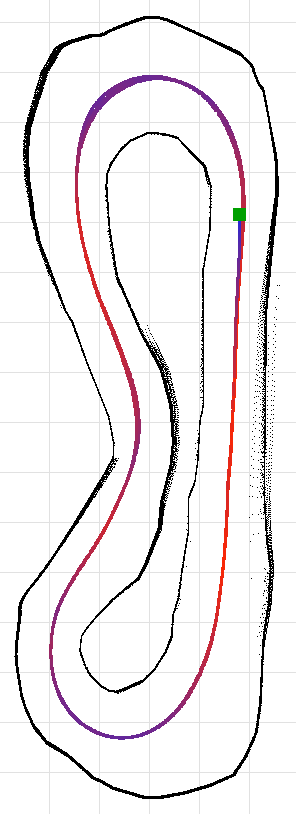
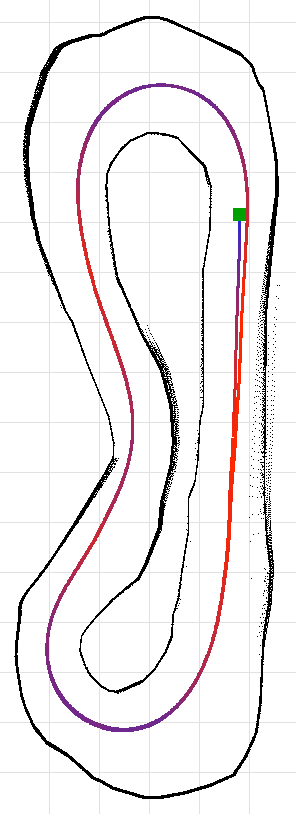
Free-space aim-point steering as the default: 5.994 s best, 31/31 clean laps
- README rewritten: two configurations, results (baseline to final, ablation,
  steering-vs-speed separation, four CMA-ES stages), measurements, things
  that did not work, robustness notes (message-gap crash, 0.33 m spot)
- shipped build re-measured: 6.011 +- 0.004 s (3 x 4 laps) and a 31-lap
  ros2-run node run (best 5.994, mean 6.012, all clean)
- figure regenerated; results archived under experiments/

diff --git a/README.md b/README.md
@@ -5,123 +5,145 @@ simulator) from its LiDAR scan.
 
 | | |
 |---|---|
-| **Fastest clean lap** | **6.299 s** |
-| **Consecutive clean laps** | **31 of 31** in one run of the real node (`ros2 run`, default parameters). Best 6.324 s, slowest flying lap 6.426 s |
+| **Fastest clean lap** | **5.994 s** (default configuration; simulator lap timer) |
+| **Consecutive clean laps** | **31 of 31** in one run of the real node (`ros2 run`, default parameters): best 5.994 s, mean 6.012 ± 0.009 s, slowest flying lap 6.031 s. |
 | **Video** | VIDEO_LINK_HERE (unlisted YouTube, Driver's Eye camera) |
 | **Node** | [`autodrive_devkit/autodrive_roboracer/wall_follow_node.py`](autodrive_devkit/autodrive_roboracer/wall_follow_node.py) |
 
-All times come from the simulator's own lap timer, which is the same clock the HUD shows.
+All lap times are the simulator's own lap timer, the same clock the HUD shows. "Flying laps"
+means lap 2 onward: a reset does not restart the timer, so lap 1 also contains the idle time
+before the car starts.
 
-![Final configuration, laps coloured by speed](docs/final_laps.png)
+![Default configuration, laps coloured by speed](docs/final_laps.png)
 
-*Final configuration on the practice track. Blue is slow, red is fast (7.3 m/s). The car runs
+*Default configuration on the practice track. Blue is slow, red is fast (7.6 m/s). The car runs
 clockwise from the green square. Walls are drawn from logged LiDAR scans.*
+
+## Two configurations
+
+The node ships with one default and two alternative parameter files. They share the wall fits,
+the side guard, the speed logic and the traction control; they differ in what the steering aims
+at.
+
+| Configuration | Steering reference | Mean flying lap (s) | How to run |
+|---|---|---|---|
+| **Default** | Free-space aim point: the centre of the free sector at a lookahead range, on a disparity-extended scan (follow-the-gap style). The two fitted walls provide centring, the side guard and the speed limits. | **6.01** (see below) | `ros2 run autodrive_roboracer wall_follow_node` |
+| Two-wall + corner preview | Midline between the two fitted walls, PD, plus a small bias towards the deepest free direction | 6.44 ± 0.27 (best 6.32) | `--ros-args --params-file .../config/two_wall_preview.yaml` |
+| Pure two-wall | Midline between the two fitted walls, PD, nothing else | 7.33 ± 0.04 | `--ros-args --params-file .../config/two_wall_pure.yaml` |
+
+The challenge asks for a wall follower. The default configuration's primary steering reference
+is the free space ahead, not the walls; the walls are secondary (centring with a small gain, the
+side guard, and all speed limits come from wall and scan distances). If a strict two-wall
+follower is wanted, the second configuration is the one to judge: it is the same node with
+`steer_mode:=pd`, and every number for it is in the tables below.
 
 ## How it works
 
-Each LiDAR scan (1080 beams over 270°) produces one steering command and one throttle command.
+Each LiDAR scan (1080 beams over 270°) produces one steering and one throttle command.
 
-**Steering**
+**Walls.** For each side, beam *b* points 90° to the side and beam *a* 50° further forward.
+For a straight wall, `tan α = (a·cos θ − b) / (a·sin θ)` gives the car's angle to the wall and
+`D = b·cos α` its distance. The centring error is `(D_left − D_right) / 2`, projected a little
+ahead. Wall-angle and error clamps reject bad fits. A side guard adds steering away from any wall
+closer than 0.37 m.
 
-1. **Wall fit.** For each side wall, beam *b* points 90° to the side and beam *a* points 50°
-   further forward. For a straight wall, `tan α = (a·cos θ − b) / (a·sin θ)` gives the car's angle
-   to the wall, and `D = b·cos α` its distance. The distance is projected ahead,
-   `D + L·sin α`, with a look-ahead `L` that grows with speed.
-2. **Centring.** The error is `(D_left − D_right) / 2`, and a PD controller turns it into a
-   steering angle. If one wall disappears, the node follows the other wall at half the remembered
-   track width. Wall-angle and error clamps reject bad fits. A side guard pushes away from any wall
-   closer than 0.37 m.
-3. **Corner preview.** The mean direction of the farthest returns within ±60° shows where the
-   track turns. A small bias towards it (`preview_gain`) makes the car turn in earlier and take a
-   wider, faster arc. This term borrows from follow-the-gap; everything else is wall following.
-   With `preview_gain:=0` the node is a pure two-wall follower, which is also clean but slower
-   (7.33 s, see the ablation).
+**Steering (default).**
+1. *Disparity extension.* Wherever two neighbouring beams differ by more than 0.3 m, the nearer
+   range is copied over the beams the car's half width would sweep at that distance. A direction
+   left free afterwards is one the car fits through.
+2. *Aim point.* Among the beams longer than the lookahead range (1.93 m + 0.20 m per m/s of
+   speed), the contiguous free sector containing the deepest direction is chosen and the car aims
+   at its centre. If nothing is free at that range, the range shrinks (down to 1.17 m). The aim
+   point is shifted 0.24 m towards the inside of the turn (`apex_shift`).
+3. *Pure pursuit.* The steering angle is the arc that reaches the aim point:
+   `κ = 2·sin θ / L`, `δ = atan(κ · wheelbase)`. A small PD term on the wall-centring error
+   (kp 0.084) and the side guard are added.
 
-**Speed**
+**Steering (two-wall configurations).** `δ = kp · error` with kp 0.42, plus the derivative term,
+the optional corner-preview bias (`preview_gain` × the deepest direction) and the side guard.
 
-4. **Target speed** is the lowest of three limits:
-   - the top speed `v_max`;
-   - braking: `√(v_corner² + 2·a_brake·d)`, where `d` is the free distance along the arc the car is
-     steering on. Mid-corner, the straight-ahead distance is short even when the path is clear,
-     so the arc matters;
-   - cornering: `√(a_lat / κ)`, with `κ = tan(δ) / wheelbase`.
-5. **Throttle.** In this simulator, throttle sets wheel speed (measured: steady speed ≈ 25 m/s ×
-   throttle). The throttle is therefore `v_target / 25` plus a speed-error term from odometry.
-   **Traction control** caps the commanded wheel speed at 18 % (+0.5 m/s) above the car's speed. Full throttle
-   from low speed spins the wheels: in the measurement, 5.4 m/s after 1.2 s instead of 7.4 m/s.
+**Speed.** The target speed is the lowest of three limits: the top speed `v_max`; braking
+`√(v_corner² + 2·a_brake·d)` where `d` is the free distance along the arc the car is steering on;
+and cornering `√(a_lat / κ)` from the commanded curvature. Throttle in this simulator sets wheel
+speed (steady speed ≈ 25 m/s × throttle), so `throttle = v_target / 25` plus a speed-error term
+from odometry, capped by traction control (wheel speed at most 16 % + 0.5 m/s above the car's
+speed; full throttle from low speed spins the wheels).
 
-**Plumbing**
+`a_lat` is a cornering *speed target*, tuned slightly above the measured steady-state grip
+(8.34 vs about 8 m/s²): on corner entry the car routinely exceeds it while braking, and the
+protection against walls comes from the arc-clearance braking, not from this limit.
 
-- The LiDAR produces about 40 new scans per second, and the bridge republishes each one 3–5
-  times. Steering is recomputed only on a new scan, so the derivative sees real changes. Throttle
-  is refreshed on every message.
-- When the node stops (Ctrl+C or SIGTERM), it publishes zero throttle and steering. The bridge
-  keeps replaying the last command it received, so without this the car would keep driving.
-- Every tunable is a ROS parameter, and parameters can be changed live
-  (`ros2 param set /wall_follow_node v_max 6.0`).
+**Plumbing.** The LiDAR produces about 40 new scans per second and the bridge republishes each
+one 3–5 times; steering is recomputed only on a new scan, throttle on every message. On Ctrl+C
+or SIGTERM the node publishes zero throttle and steering before it exits (the bridge replays the
+last command forever otherwise). Malformed scans are ignored. Every tunable is a ROS parameter
+and can be changed live.
 
 ## Results
 
 ### From baseline to final
 
-Lap times are flying laps (lap 2 onward). A reset does not restart the simulator's lap timer, so
-lap 1 also contains the idle time before the car starts. Each row is 3 runs × 4 laps (9 flying
-laps), with runs interleaved across variants.
+Each row is 3 runs × 4 laps (9 flying laps), runs interleaved across variants. Mean ± standard
+deviation of the flying laps; laps within a run are correlated, so treat the ± as spread, not as a
+confidence interval.
 
-| Version | Mean flying lap (s) | Best (s) | Wall contacts |
+| Version | Mean flying lap (s) | Best (s) | Clean runs |
 |---|---|---|---|
-| Textbook wall follower, left wall (F1TENTH lab: PD, 1.5/1.0/0.5 m/s by steering angle) | 24.080 ± 0.042 | 24.036 | 0 |
-| Textbook wall follower, right (inner) wall | 21.015 ± 0.084 | 20.897 | 0 |
-| Hand-tuned: centring, arc braking, cornering limit, corner preview, speed feedback | 7.104 ± 0.043 | 7.052 | 0 |
-| **Final: + traction control, parameters tuned with CMA-ES** | **6.374 ± 0.055** | **6.299** | **0** |
+| Textbook wall follower, left wall (F1TENTH lab: PD, 1.5/1.0/0.5 m/s by steering angle) | 24.080 ± 0.042 | 24.036 | 3/3 |
+| Textbook wall follower, right (inner) wall | 21.015 ± 0.084 | 20.897 | 3/3 |
+| Two-wall PD, hand-tuned speed logic (centring, arc braking, cornering limit, preview, speed feedback) | 7.104 ± 0.043 | 7.052 | 3/3 |
+| Two-wall PD + traction control, parameters tuned with CMA-ES | 6.374 ± 0.055 | 6.299 | 3/3 |
+| Free-space aim point (pursuit), first CMA-ES stage | 6.084 ± 0.006 | 6.076 | 3/3 |
+| **Free-space aim point, second CMA-ES stage (default)** | **6.014 ± 0.008** | **6.007** | **3/3** |
+| Default, re-measured with the shipped build | 6.011 ± 0.004 | 6.004 | 3/3 |
+| Default, real node (`ros2 run`), 31 laps in a row | 6.012 ± 0.009 (30 flying laps) | 5.994 | 1/1 |
 
-Every run of the final configuration (4 runs, 43 laps) was clean. Across all 39 flying laps:
-mean 6.367 s, std 0.036 s, best 6.299 s, worst 6.466 s.
+Search scores are not quoted anywhere: every number above is a re-measurement of a fixed
+configuration.
 
-### Ablation: remove one component from the final configuration
+### Ablation: remove one component from the default configuration
 
-| Variant | Mean flying lap (s) | Δ vs final (s) | Clean runs |
+3 runs × 4 laps per variant, interleaved.
+
+| Variant | Mean flying lap (s) | Δ (s) | Clean runs |
 |---|---|---|---|
-| **Final** | **6.374 ± 0.055** | – | 3/3 |
-| − centring (follow the right wall only) | 7.869 ± 0.099 | +1.50 | 3/3 |
-| − arc clearance (straight-ahead corridor) | 7.370 ± 0.009 | +1.00 | 3/3 |
-| − corner preview (pure wall follower) | 7.327 ± 0.039 | +0.95 | 3/3 |
-| − speed feedback | 7.135 ± 0.235 | +0.76 | 3/3 |
-| − traction control | 6.506 ± 0.260 | +0.13 | 3/3 |
-| − speed-dependent look-ahead (fixed 1.0 m) | 6.485 ± 0.280 | +0.11 | 3/3 |
-| − corner-entry speed (`v_corner=0`) | 6.351 ± 0.013 | −0.02 | 3/3 |
-| − side guard | 6.363 ± 0.025 | −0.01 | 3/3 |
-| − adaptive speed (constant 3 m/s) | 10.206 ± 0.001 | +3.83 | 3/3 |
+| **Default** | **6.014 ± 0.008** | – | 3/3 |
+| − speed-dependent lookahead (fixed 1.93 m) | 7.436 ± 0.207 | +1.42 | 3/3 |
+| − speed feedback | 6.752 ± 0.007 | +0.74 | **2/3** |
+| − arc clearance (straight-ahead corridor) | 6.621 ± 0.005 | +0.61 | 3/3 |
+| two-wall PD steering instead of the aim point (same speed envelope) | 6.468 ± 0.320 | +0.45 | 3/3 |
+| − wall-centring term (kp = 0) | 6.151 ± 0.017 | +0.14 | 3/3 |
+| − traction control | 6.101 ± 0.007 | +0.09 | 3/3 |
+| − apex shift | 6.098 ± 0.004 | +0.08 | 3/3 |
+| − disparity extension | 6.071 ± 0.167 | +0.06 | 3/3 |
+| − corner speed (`v_corner = 0`) | 6.050 ± 0.004 | +0.04 | **1/3** |
+| − side guard | 6.025 ± 0.005 | +0.01 | 3/3 |
+| aim-point steering with the earlier (two-wall) speed envelope | 6.088 ± 0.004 | +0.07 | 3/3 |
 
-Centring, arc clearance, the corner preview and speed feedback each carry close to a second.
-Traction control and the speed-dependent look-ahead give smaller gains, and removing them also
-makes laps less consistent (std 0.26–0.28 s). The corner-entry speed and the side guard show no
-measurable effect on lap time. The side guard stays as a safety margin.
+The last two rows separate the steering change from the speed re-tune: the aim point with the
+earlier speed envelope is already at 6.09 s, while two-wall steering with the new envelope stays
+at 6.47 s. The speed-dependent lookahead, the speed feedback and the arc clearance each carry
+more than half a second. The wall-centring term, traction control and the apex shift are worth about a
+tenth each. Two variants that are not slower by much crashed: without the corner-speed term
+(2 wall contacts in 3 runs) and without speed feedback (1 in 3), both at the exit of the bottom
+hairpin. The side guard shows no measurable effect and stays as a safety margin.
 
 ### Parameter tuning (CMA-ES)
 
-Ten parameters were tuned with CMA-ES ([`tools/tune.py`](tools/tune.py)) directly in the
-simulator. The ten: top speed, cornering limit, braking, corner-entry speed, stop margin, preview
-gain, kp, look-ahead, traction slip and side clearance.
+Parameters were tuned with CMA-ES ([`tools/tune.py`](tools/tune.py)) directly in the simulator:
+one evaluation is a reset plus 3 laps, the score is the mean of laps 2–3, and a wall contact
+scores 12 s.
 
-- One evaluation is a reset plus 3 laps. The score is the mean of laps 2–3, and any wall contact
-  scores 12 s.
-- Stage 1 started from the hand-tuned configuration plus traction control, and ran 60
-  evaluations. `kp` and the
-  look-ahead ended on the edge of their ranges.
-- Stage 2 widened those two ranges and ran 30 more evaluations.
-- All 90 configurations were clean.
-- The best one was re-measured from scratch: 3 runs × 4 laps, interleaved with the hand-tuned
-  configuration and the runners-up. This guards against picking a lucky evaluation. The result was
-  6.363 s, against 6.32 s during the search. Its values, rounded, are the node's defaults.
+| Stage | Steering | Parameters | Evaluations | Clean | Best score |
+|---|---|---|---|---|---|
+| 1 | two-wall PD | 10 | 60 | 60 | 6.53 |
+| 2 | two-wall PD, kp and lookahead ranges widened | 10 | 30 | 30 | 6.32 |
+| 3 | aim point | 12 | 35 | 34 | 6.09 |
+| 4 | aim point, from the stage-3 winner with a smaller step | 12 | 42 | 42 | 6.01 |
 
-What the optimiser changed:
-- gentler steering (`kp` 0.9 → 0.42, base look-ahead 0.5 → 0.26 m);
-- braking planned at the measured 6 m/s² instead of 4;
-- a higher cornering limit (7.8 m/s²);
-- traction control at 18 % slip.
-
-Full history: [`experiments/tuning_history.jsonl`](experiments/tuning_history.jsonl).
+Every winner was re-measured from scratch (3 runs × 4 laps, interleaved with the previous
+configuration) before being adopted. The expected optimism of a best-of-42 score with this lap
+noise is 0.01–0.02 s; the re-measurements agreed with the scores within that.
 
 ### Measurements that shaped the design
 
@@ -129,13 +151,43 @@ Full history: [`experiments/tuning_history.jsonl`](experiments/tuning_history.js
 |---|---|
 | Throttle sets wheel speed: steady speed ≈ 25 m/s × throttle | `throttle = v_target / 25` + speed feedback |
 | Full throttle from low speed spins the wheels (5.4 vs 7.4 m/s after 1.2 s) | traction control |
-| Braking is ≈ 6 m/s² for any throttle below the current speed (0, −0.3 and −1 are the same) | no special braking logic; plan with 6 m/s² |
-| Constant 4–5 m/s crashes into the outer wall of the bottom hairpin; 3 m/s is clean | brake on the free distance ahead, limit cornering speed |
-| The LiDAR gives ~40 new scans/s; the bridge republishes each 3–5× (~160 messages/s) | steering only on new scans; D term computed between real scans |
-| The D term never helped (kd 0 ≈ 0.03 < 0.06 < 0.12) | `D + L·sin α` already contains the heading; kd kept small |
-| A reset does not restart the lap timer | compare flying laps only |
+| Braking is ≈ 6 m/s² for any throttle below the current speed | no special braking logic |
+| Steering onset latency ≈ 20 ms; the kinematic model matches at low lateral acceleration | kinematic pure pursuit is adequate |
+| Sustained grip ≈ 8 m/s²; asking for 9–11.5 made laps a full second slower (the car slides wide and hits full lock) | cornering limit near 8 |
+| The LiDAR gives ~40 new scans/s; the bridge republishes each 3–5× | steering only on new scans |
+| The tuned two-wall car was already at the point-mass speed limit of the line it drove (5.96 s ideal on a 30.4 m path vs 6.31 actual) while a shorter line allowed 5.74 s | the remaining time was in the line, which led to the aim-point steering |
 
-[`tools/sysid.py`](tools/sysid.py) reproduces the acceleration and braking measurements.
+[`tools/sysid.py`](tools/sysid.py) reproduces the acceleration, braking and steering
+measurements; [`tools/lap_analysis.py`](tools/lap_analysis.py) compares a driven lap to the ideal
+profile on its own path, segment by segment.
+
+### Things that did not work
+
+- **Pure-pursuit geometry on the wall-centring error** (`steer_law:=pursuit_wall`, gain falling
+  with speed): 7.1–8.1 s. At hairpin speeds its gain is high, the steering saturates, and the
+  cornering limit then holds the car to ~2 m/s. Kept in the code, off by default.
+- **Stiffer two-wall gains** (kp 0.9 with the tuned speed logic): 7.25–7.96 s, same saturation.
+- **A bounded inside-of-corner offset on the two-wall law**: 6.39 s, no gain.
+- **Cornering limits above the measured grip** (9–11.5 m/s²): 7.2–7.4 s.
+- **Longer aim-point lookahead** (2.5 m): the car cut the bottom hairpin too early and nearly
+  stalled at the apex (6.6 s).
+
+## Robustness
+
+- **Consecutive laps.** **31 of 31** in one run of the real node (`ros2 run`, default parameters): best 5.994 s, mean 6.012 ± 0.009 s, slowest flying lap 6.031 s. An earlier 31-lap attempt with the same configuration ended
+  in a wall contact in lap 2, at the left-side S-bend; its trace shows a 0.36 s gap with no scan
+  messages just before the contact, while a test suite was running on the same machine. The car
+  covered 1.85 m blind at 5 m/s. Timing-critical runs were made with the machine otherwise idle
+  after that. One run of 31 laps bounds the per-lap contact probability to roughly below 10 %; it
+  does not prove the car never touches a wall.
+- **Tightest spot.** The default line passes the left wall at 0.33 m (LiDAR to wall, about
+  0.17 m of body clearance) at 4.8 m/s in the left-side S-bend; the two-wall configurations pass
+  it at 0.41 m. A wider side clearance (0.43 m) gains only 2 cm there and costs 0.08 s per lap.
+- **Offline checks** (`tests/test_closed_loop.py`): the default and the two-wall configurations
+  finish laps on the mirrored, counter-clockwise track, at a 40 Hz control rate, with 2 cm LiDAR
+  noise and with 75 ms of extra command latency.
+- **Shutdown.** Ctrl+C on the node at 4.4 m/s brought the car to a stop, with the bridge
+  reporting throttle 0.
 
 ## Run it
 
@@ -144,20 +196,21 @@ Prerequisites: Docker Desktop, Git, and the IROS 2026 **practice** simulator.
 ```powershell
 docker build --platform linux/amd64 -t penn-challenge -f autodrive_devkit.Dockerfile .
 .\scripts\dev.ps1 up     # container + colcon build + bridge in the background (Windows)
-.\scripts\dev.ps1 run    # start wall_follow_node with the default (final) parameters
+.\scripts\dev.ps1 run    # start wall_follow_node with the default parameters
 ```
 
-Alternatively, use the commands from the challenge sheet. Start the bridge with
-`ros2 launch autodrive_roboracer bringup_headless.launch.py`, then run
-`ros2 run autodrive_roboracer wall_follow_node`. In the simulator, connect to `127.0.0.1:4567` and
-set Driving Mode to **Autonomous**.
-
-Options:
+Or use the commands from the challenge sheet: `ros2 launch autodrive_roboracer
+bringup_headless.launch.py`, then `ros2 run autodrive_roboracer wall_follow_node`. In the
+simulator connect to `127.0.0.1:4567` and set Driving Mode to **Autonomous**.
 
 ```bash
-# pure two-wall follower (no corner preview)
-ros2 run autodrive_roboracer wall_follow_node --ros-args -p preview_gain:=0.0
-# hand-tuned configuration: slower (7.1 s), more steering margin
+# two-wall follower with corner preview (~6.4 s)
+ros2 run autodrive_roboracer wall_follow_node --ros-args --params-file \
+  /home/autodrive_devkit/src/autodrive_devkit/config/two_wall_preview.yaml
+# pure two-wall follower (~7.3 s)
+ros2 run autodrive_roboracer wall_follow_node --ros-args --params-file \
+  /home/autodrive_devkit/src/autodrive_devkit/config/two_wall_pure.yaml
+# hand-tuned two-wall configuration (~7.1 s, the most conservative)
 ros2 run autodrive_roboracer wall_follow_node --ros-args --params-file \
   /home/autodrive_devkit/src/autodrive_devkit/config/hand_tuned.yaml
 ```
@@ -166,59 +219,56 @@ ros2 run autodrive_roboracer wall_follow_node --ros-args --params-file \
 
 | What | Where | Runs in |
 |---|---|---|
-| Unit tests on synthetic scans: geometry, signs, invalid beams, missing walls, repeated scans, speed modes, traction control, parameter validation | `autodrive_devkit/test/test_wall_follow.py` | CI + container |
-| Closed-loop tests in a small offline simulator on a replica of the track. Covers both directions (mirrored track), 40 Hz control, 2 cm LiDAR noise and 75 ms command latency. Also checks that a constant 4 m/s *does* crash, as it does in the real simulator | `tests/test_closed_loop.py`, `tools/sim2d.py` | CI + container |
+| Unit tests on synthetic scans: wall geometry, signs, invalid and empty scans, disparity extension, aim-point selection and fallback, repeated scans, speed modes, traction control, parameter validation | `autodrive_devkit/test/test_wall_follow.py` | CI + container |
+| Closed-loop tests in a small offline simulator on a replica of the track: both directions, 40 Hz control, LiDAR noise, command latency; also checks that a constant 4 m/s *does* crash, as it does in the real simulator | `tests/test_closed_loop.py`, `tools/sim2d.py` | CI + container |
 | Timed laps in the real simulator: reset, lap count, wall contacts, per-scan trace, code hash per result | `tools/experiment.py`, `tools/summarize.py` | container + simulator |
 
 GitHub Actions runs flake8, `colcon build` and both test suites in a `ros:humble` container on
-every push. The offline simulator is calibrated to measured acceleration, braking and grip, but it
-is a kinematic model: it catches regressions and does not predict lap times.
+every push. The offline simulator is calibrated to the measured acceleration, braking and grip,
+but it is a kinematic model: it catches regressions and does not predict lap times (it predicted a
+gain for `pursuit_wall` that the real simulator did not show).
 
 ## Reproducing the experiments
 
-Each results table above has a script and a raw results file in [`experiments/`](experiments/):
-
 | Experiment | Script | Results |
 |---|---|---|
-| Baselines and hand-tuned ablation | `final.sh` | `results_final.jsonl` |
-| Tuned candidates, final ablation, 31-lap run | `validate_tuned.sh`, `final2.sh` | `results_tuned_final.jsonl` |
+| Textbook baselines, hand-tuned two-wall ablation | `experiments/final.sh` | `results_final.jsonl` |
+| Two-wall CMA-ES winners, ablation, 31-lap run | `validate_tuned.sh`, `final2.sh` | `results_tuned_final.jsonl` |
+| Aim-point validation, ablation, 31-lap runs | `validate_gap.sh`, `final3.sh`, `final3b.sh` | `results_pursuit_final.jsonl` |
 | Screening rounds | `screen*.sh` | `results_screening*.jsonl` |
-| CMA-ES search | `tools/tune.py` | `tuning_history.jsonl` |
+| CMA-ES search (all four stages) | `tools/tune.py` | `tuning_history.jsonl` |
 
-`tools/summarize.py <file>` prints any of these as a table. Runs need the simulator in headless
-batch mode (`-batchmode -nographics -ip 127.0.0.1 -port 4567`). Start the simulator *before* the
-bridge. Otherwise the simulator's first message has no LiDAR data, the bridge raises a `KeyError`,
-and the connection stalls.
+`python3 tools/summarize.py <file>` prints any of these as a table. Runs need the simulator in
+headless batch mode (`.\scripts\dev.ps1 headless` starts it and the bridge in the right order:
+the simulator first, or the bridge raises a `KeyError` on the first message and stalls).
 
 ## Notes and limitations
 
-- **Where the results were measured.** All results were measured with the simulator in headless
-  batch mode on one PC. The GUI mode used for the video also renders, which can change message
-  timing. The offline tests cover 40 Hz control and 75 ms latency. If the car misbehaves in GUI
-  mode, the hand-tuned parameter file above is the conservative fallback.
-- **Run one ROS container at a time.** Containers on the same Docker network discover each
-  other's ROS 2 topics, so two controllers would drive the same car. To run several, give each its
-  own `ROS_DOMAIN_ID`.
-- **Tuned for this track.** The parameters were tuned on the practice track. The algorithm is
-  symmetric and passes the mirrored-track tests, but the exact numbers are specific to this
-  track's geometry.
+- All results were measured in headless batch mode on one PC. The GUI mode used for the video
+  also renders, which can change message timing; the parameter files above are the conservative
+  fallbacks.
+- Run one ROS container at a time: containers on the same Docker network discover each other's
+  topics and two controllers would drive the same car (`ROS_DOMAIN_ID` separates them).
+- The parameters are tuned for this track. The algorithm is symmetric and passes the mirrored
+  track offline, but the numbers are specific to this geometry.
 
 ## Repository layout
 
 ```
 autodrive_devkit/            ROS 2 package from AutoDRIVE + wall_follow_node.py (bridge unchanged)
-  config/hand_tuned.yaml     fallback parameter file
+  config/*.yaml              alternative parameter files (two-wall, hand-tuned)
 autodrive_devkit.Dockerfile  unchanged from AutoDRIVE, so the image builds from this repo
 tools/experiment.py          automated timed laps in the simulator
 tools/tune.py                CMA-ES parameter search
-tools/sysid.py               acceleration / braking measurements
+tools/sysid.py               acceleration / braking / steering measurements
+tools/lap_analysis.py        time lost per path segment vs the ideal profile
+tools/lap_bound.py           ideal lap time on a fixed path
 tools/sim2d.py               offline simulator used by the closed-loop tests
-tools/summarize.py           results tables (flying laps only)
+tools/summarize.py           results tables
 tools/track_map.py           track map from logged scans
-tools/lap_bound.py           point-mass reference lap time along a fixed path
 tests/                       closed-loop tests + track replica
 experiments/                 experiment scripts and raw results
-scripts/                     Windows helpers: dev.ps1 (up/run/test/shell/down), tune_up.ps1
+scripts/                     Windows helpers: dev.ps1 (up/run/headless/test/shell/down), tune_up.ps1
 ```
 
 AutoDRIVE files are BSD-licensed, Copyright (c) AutoDRIVE / Tinker Twins (see `LICENSE.AutoDRIVE`).
